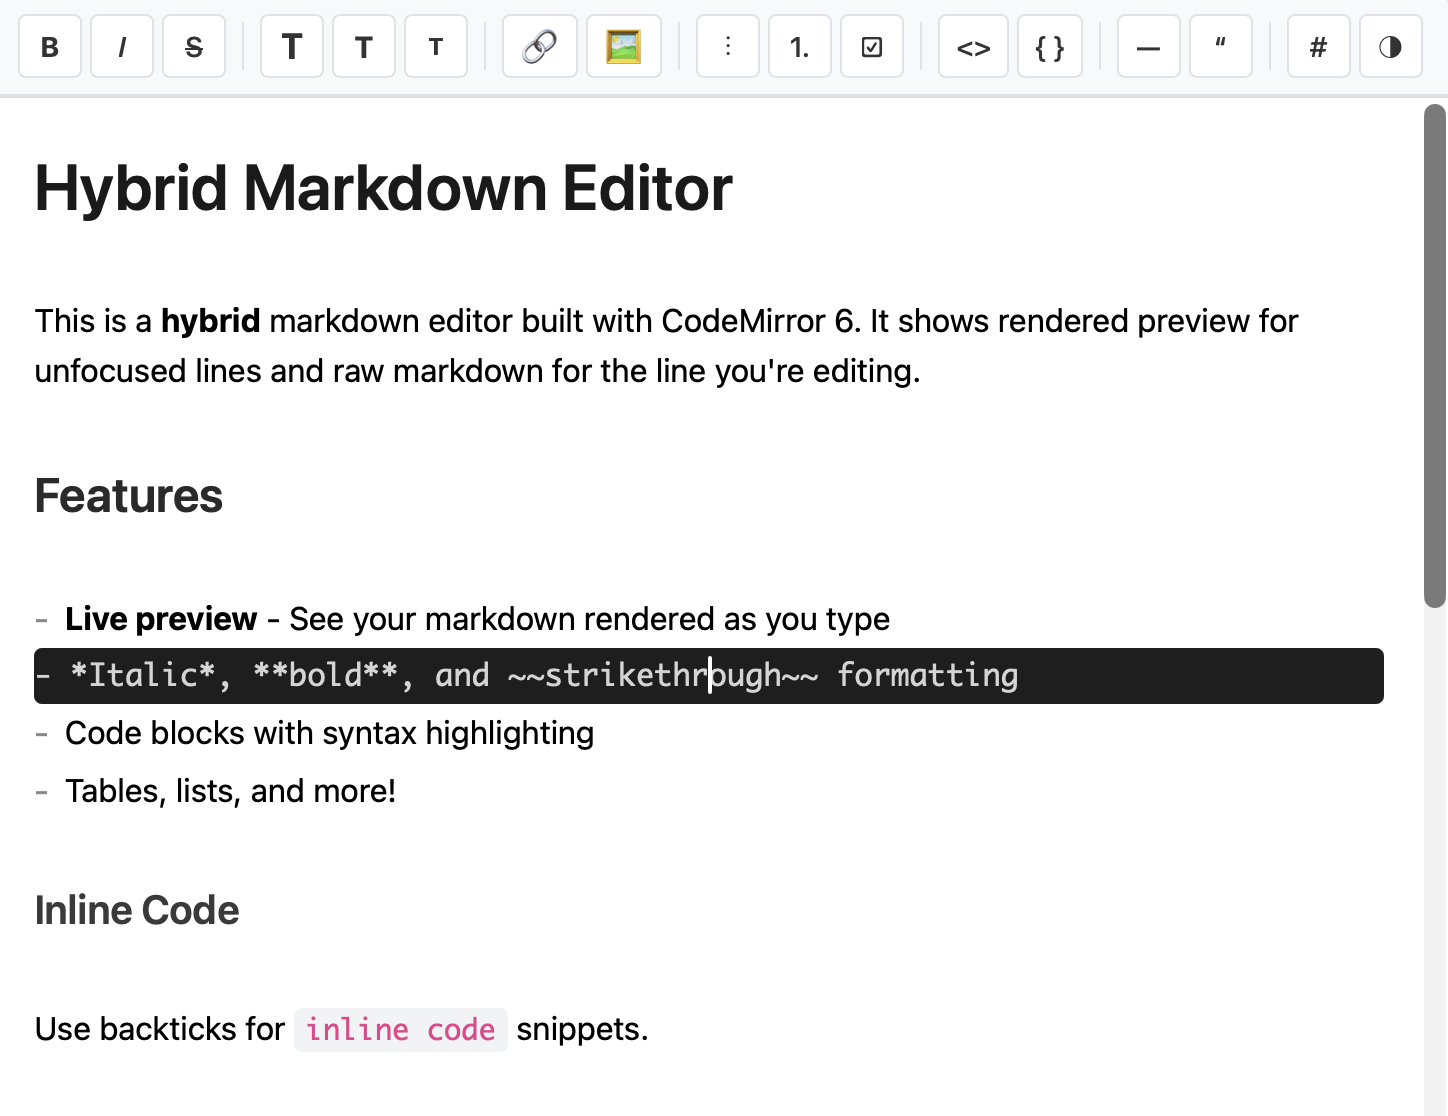
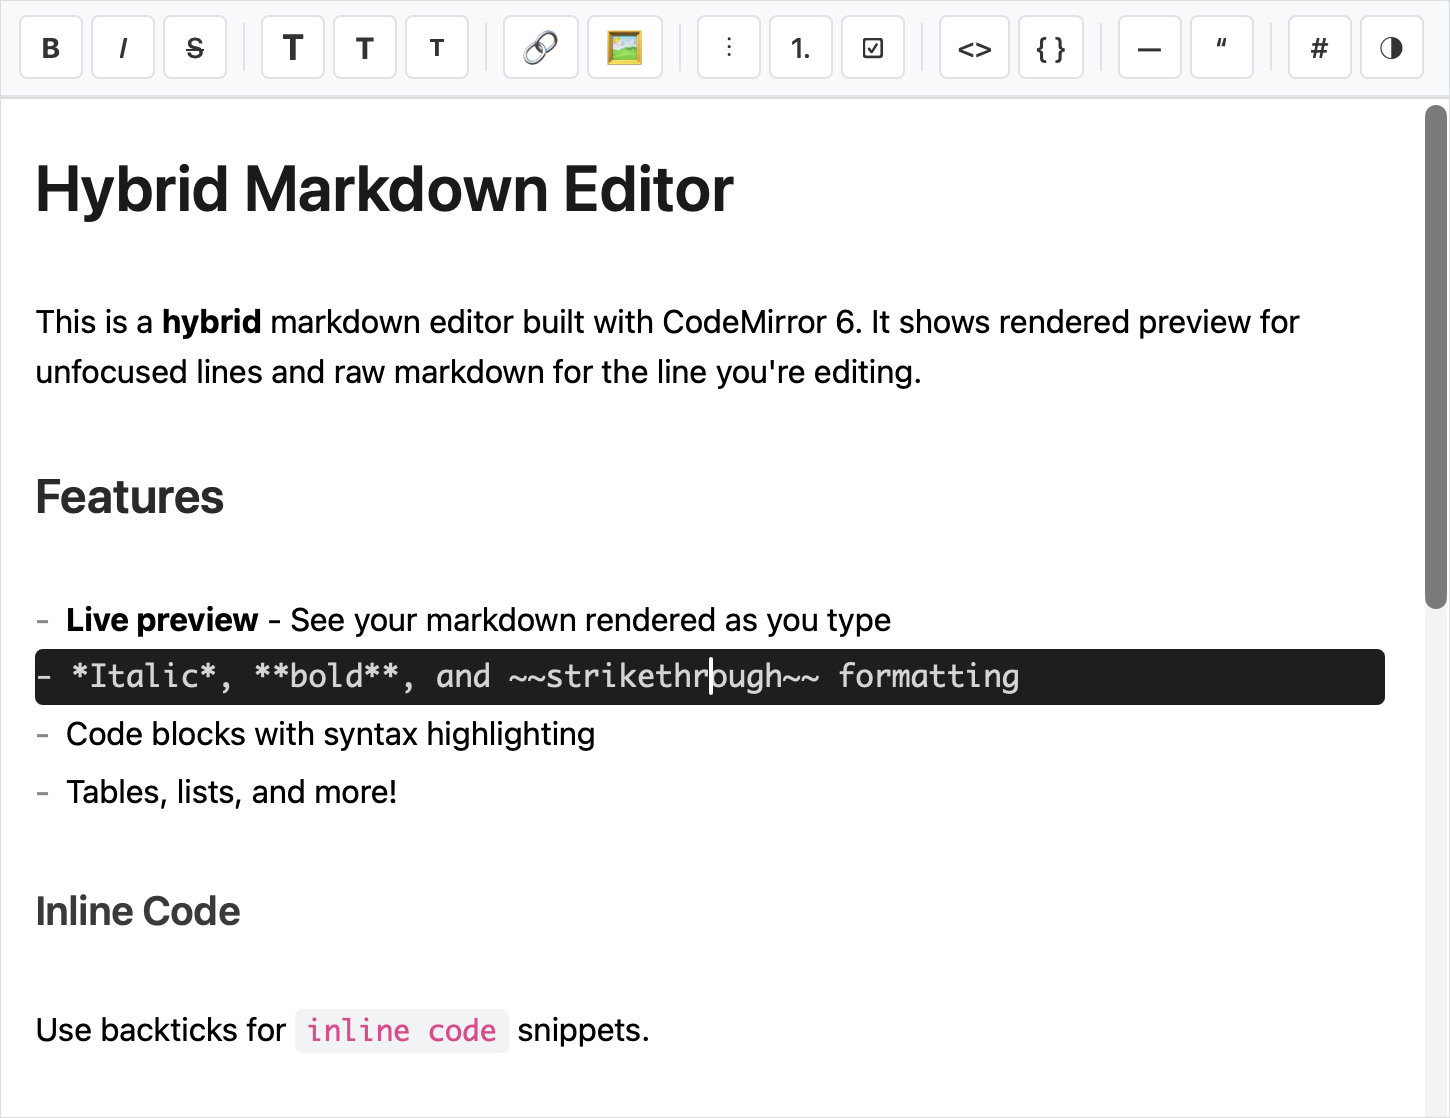
Add border to screenshot image

diff --git a/README.md b/README.md
@@ -7,10 +7,8 @@ A CodeMirror 6 extension for hybrid markdown editing - shows rendered preview fo
 Try it live: [**Live Demo**](https://tiagosimoes.github.io/codemirror-markdown-hybrid/)
 
 <a href="https://tiagosimoes.github.io/codemirror-markdown-hybrid/">
-  <img src="screenshot.png" alt="Screenshot" width="600" style="border: 1px solid #ddd; border-radius: 4px; cursor: pointer;">
+  <img src="screenshot.png" alt="Screenshot" width="600">
 </a>
-
-> Click the image to try the live demo
 
 ## Install
 
